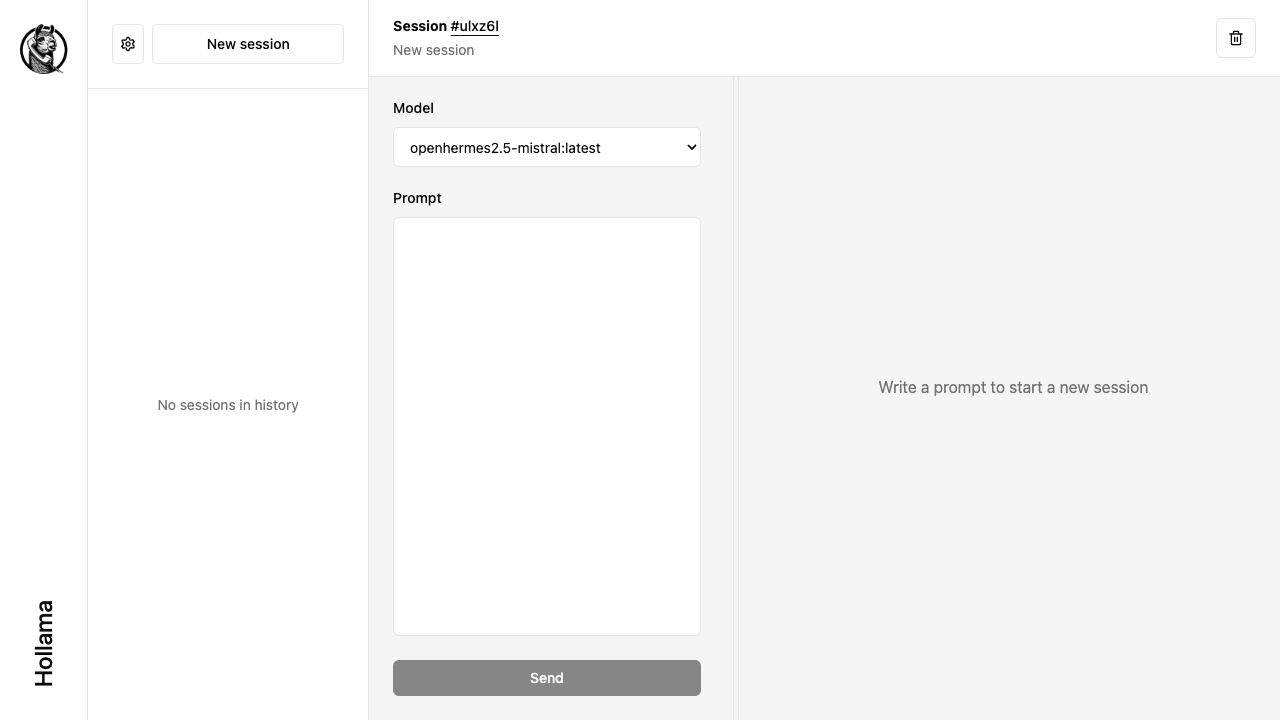
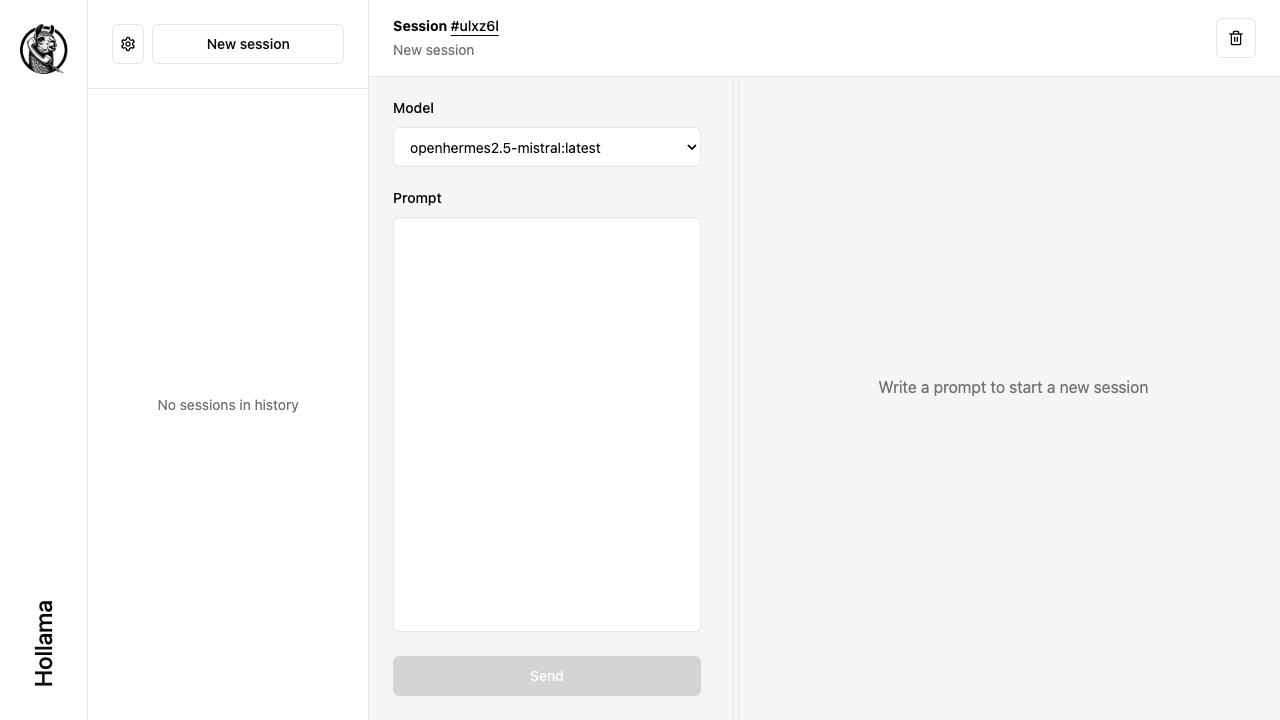
fix: choose model from "New session" view
Closes #41

Changed region(s): [[0.2812, 0.8861, 0.5625, 0.9778]]

diff --git a/tests/session.test.ts b/tests/session.test.ts
@@ -205,24 +205,25 @@ test('copies the raw text of a message to clipboard', async ({ page }) => {
 	expect(await page.evaluate(() => navigator.clipboard.readText())).toEqual("I am unable to provide subjective or speculative information, including fight outcomes between individuals.");
 });
 
-test('can stop a completion in progress', async ({ page }) => {
+test('can start a new session, choose a model and stop a completion in progress', async ({ page }) => {
 	const promptTextarea = page.getByLabel('Prompt');
 	const sendButton = page.getByText('Send');
 	const stopButton = page.getByTitle('Stop response');
 	const userMessage = page.locator('article', { hasText: "You" })
 	const aiMessage = page.locator('article', { hasText: "AI" })
+	const modelName = page.getByTestId('model-name');
 
 	await page.goto('/');
-	await chooseModelFromSettings(page, 'gemma:7b');
 	await page.getByText("New session").click();
 	await expect(userMessage).not.toBeVisible();
 	await expect(aiMessage).not.toBeVisible();
-
+	await expect(modelName).toHaveText('New session');
+	
 	// Mock a response that takes a while to generate
+	await page.getByLabel('Model').selectOption('gemma:7b');
 	await page.route('**/generate', () => {});
 	await promptTextarea.fill('Hello world!');
 	await sendButton.click();
-
 	await expect(userMessage).toBeVisible();
 	await expect(userMessage).toContainText('Hello world!')
 	await expect(aiMessage).toBeVisible();
@@ -231,6 +232,7 @@ test('can stop a completion in progress', async ({ page }) => {
 	await expect(sendButton).toBeDisabled();
 	await expect(stopButton).toBeVisible();
 	await expect(page.getByText("Write a prompt to start a new session")).not.toBeVisible();
+	await expect(modelName).toHaveText('gemma:7b');
 
 	await stopButton.click();
 	await expect(page.getByText("Write a prompt to start a new session")).toBeVisible();

diff --git a/src/routes/[id]/+page.svelte b/src/routes/[id]/+page.svelte
@@ -29,6 +29,7 @@
 	$: isNewSession = !session?.messages.length;
 	$: isLastMessageFromUser = session?.messages[session.messages.length - 1]?.role === 'user';
 	$: session && scrollToBottom();
+	$: if ($settingsStore?.ollamaModel) { session.model = $settingsStore.ollamaModel };
 
 	async function scrollToBottom() {
 		if (!messageWindow) return;
